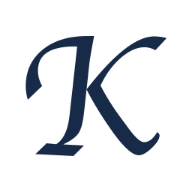
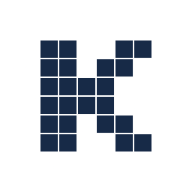
favicon更新

Changed region(s): [[0.125, 0.1875, 0.875, 0.8125]]

diff --git a/README.md b/README.md
@@ -1,1 +1,4 @@
 # showgayaki.github.io
+
+## favicon generater
+https://favicon.io/favicon-converter/
